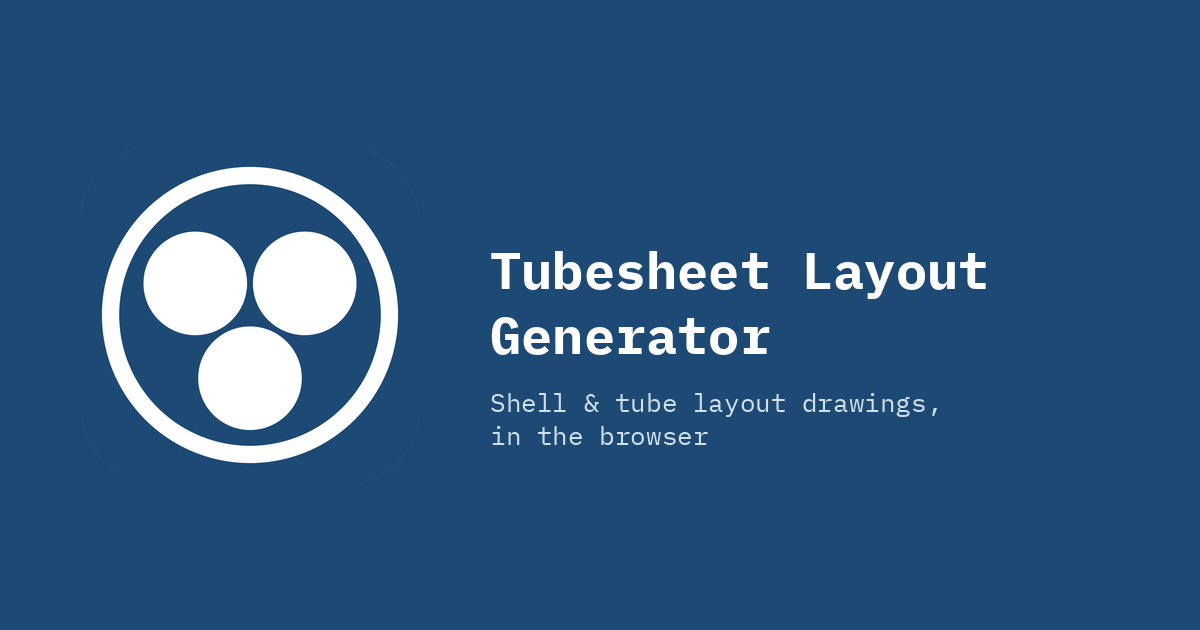
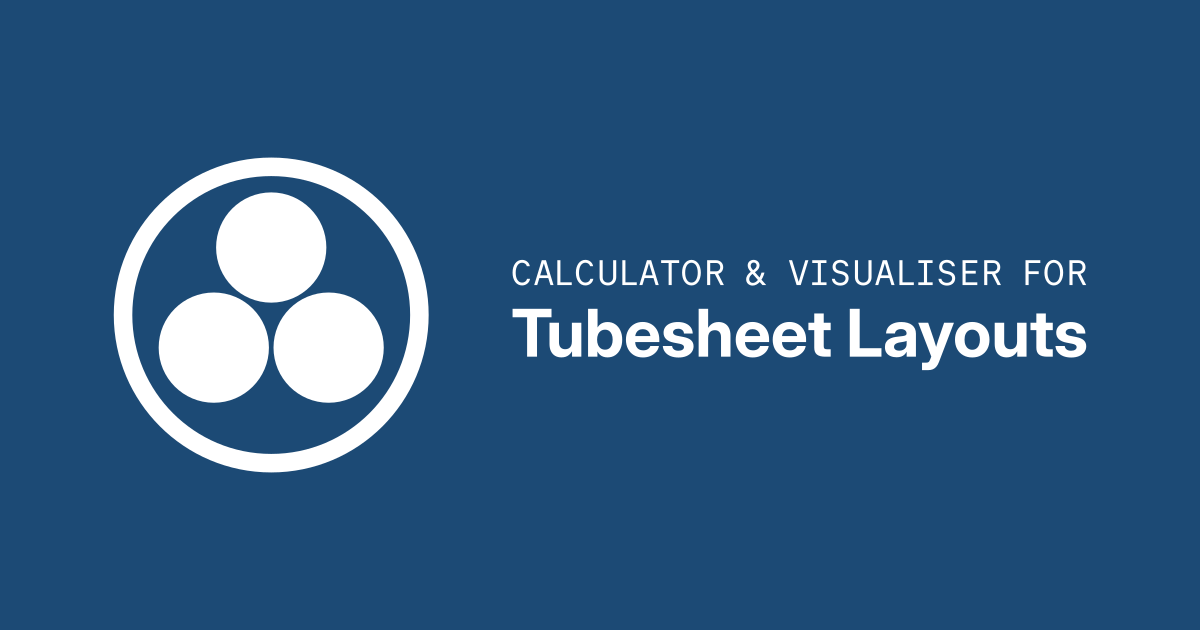
image updates

diff --git a/README.md b/README.md
@@ -1,4 +1,6 @@
-# Tubesheet Layout Generator React App
+# Calculator and Visualiser for Tubesheet Layouts
+
+![Calculator and Visualiser for Tubesheet Layouts](https://github.com/[username]/[reponame]/blob/[branch]/public/og-image.svg?raw=true&sanitize=true)
 
 ## About
 
